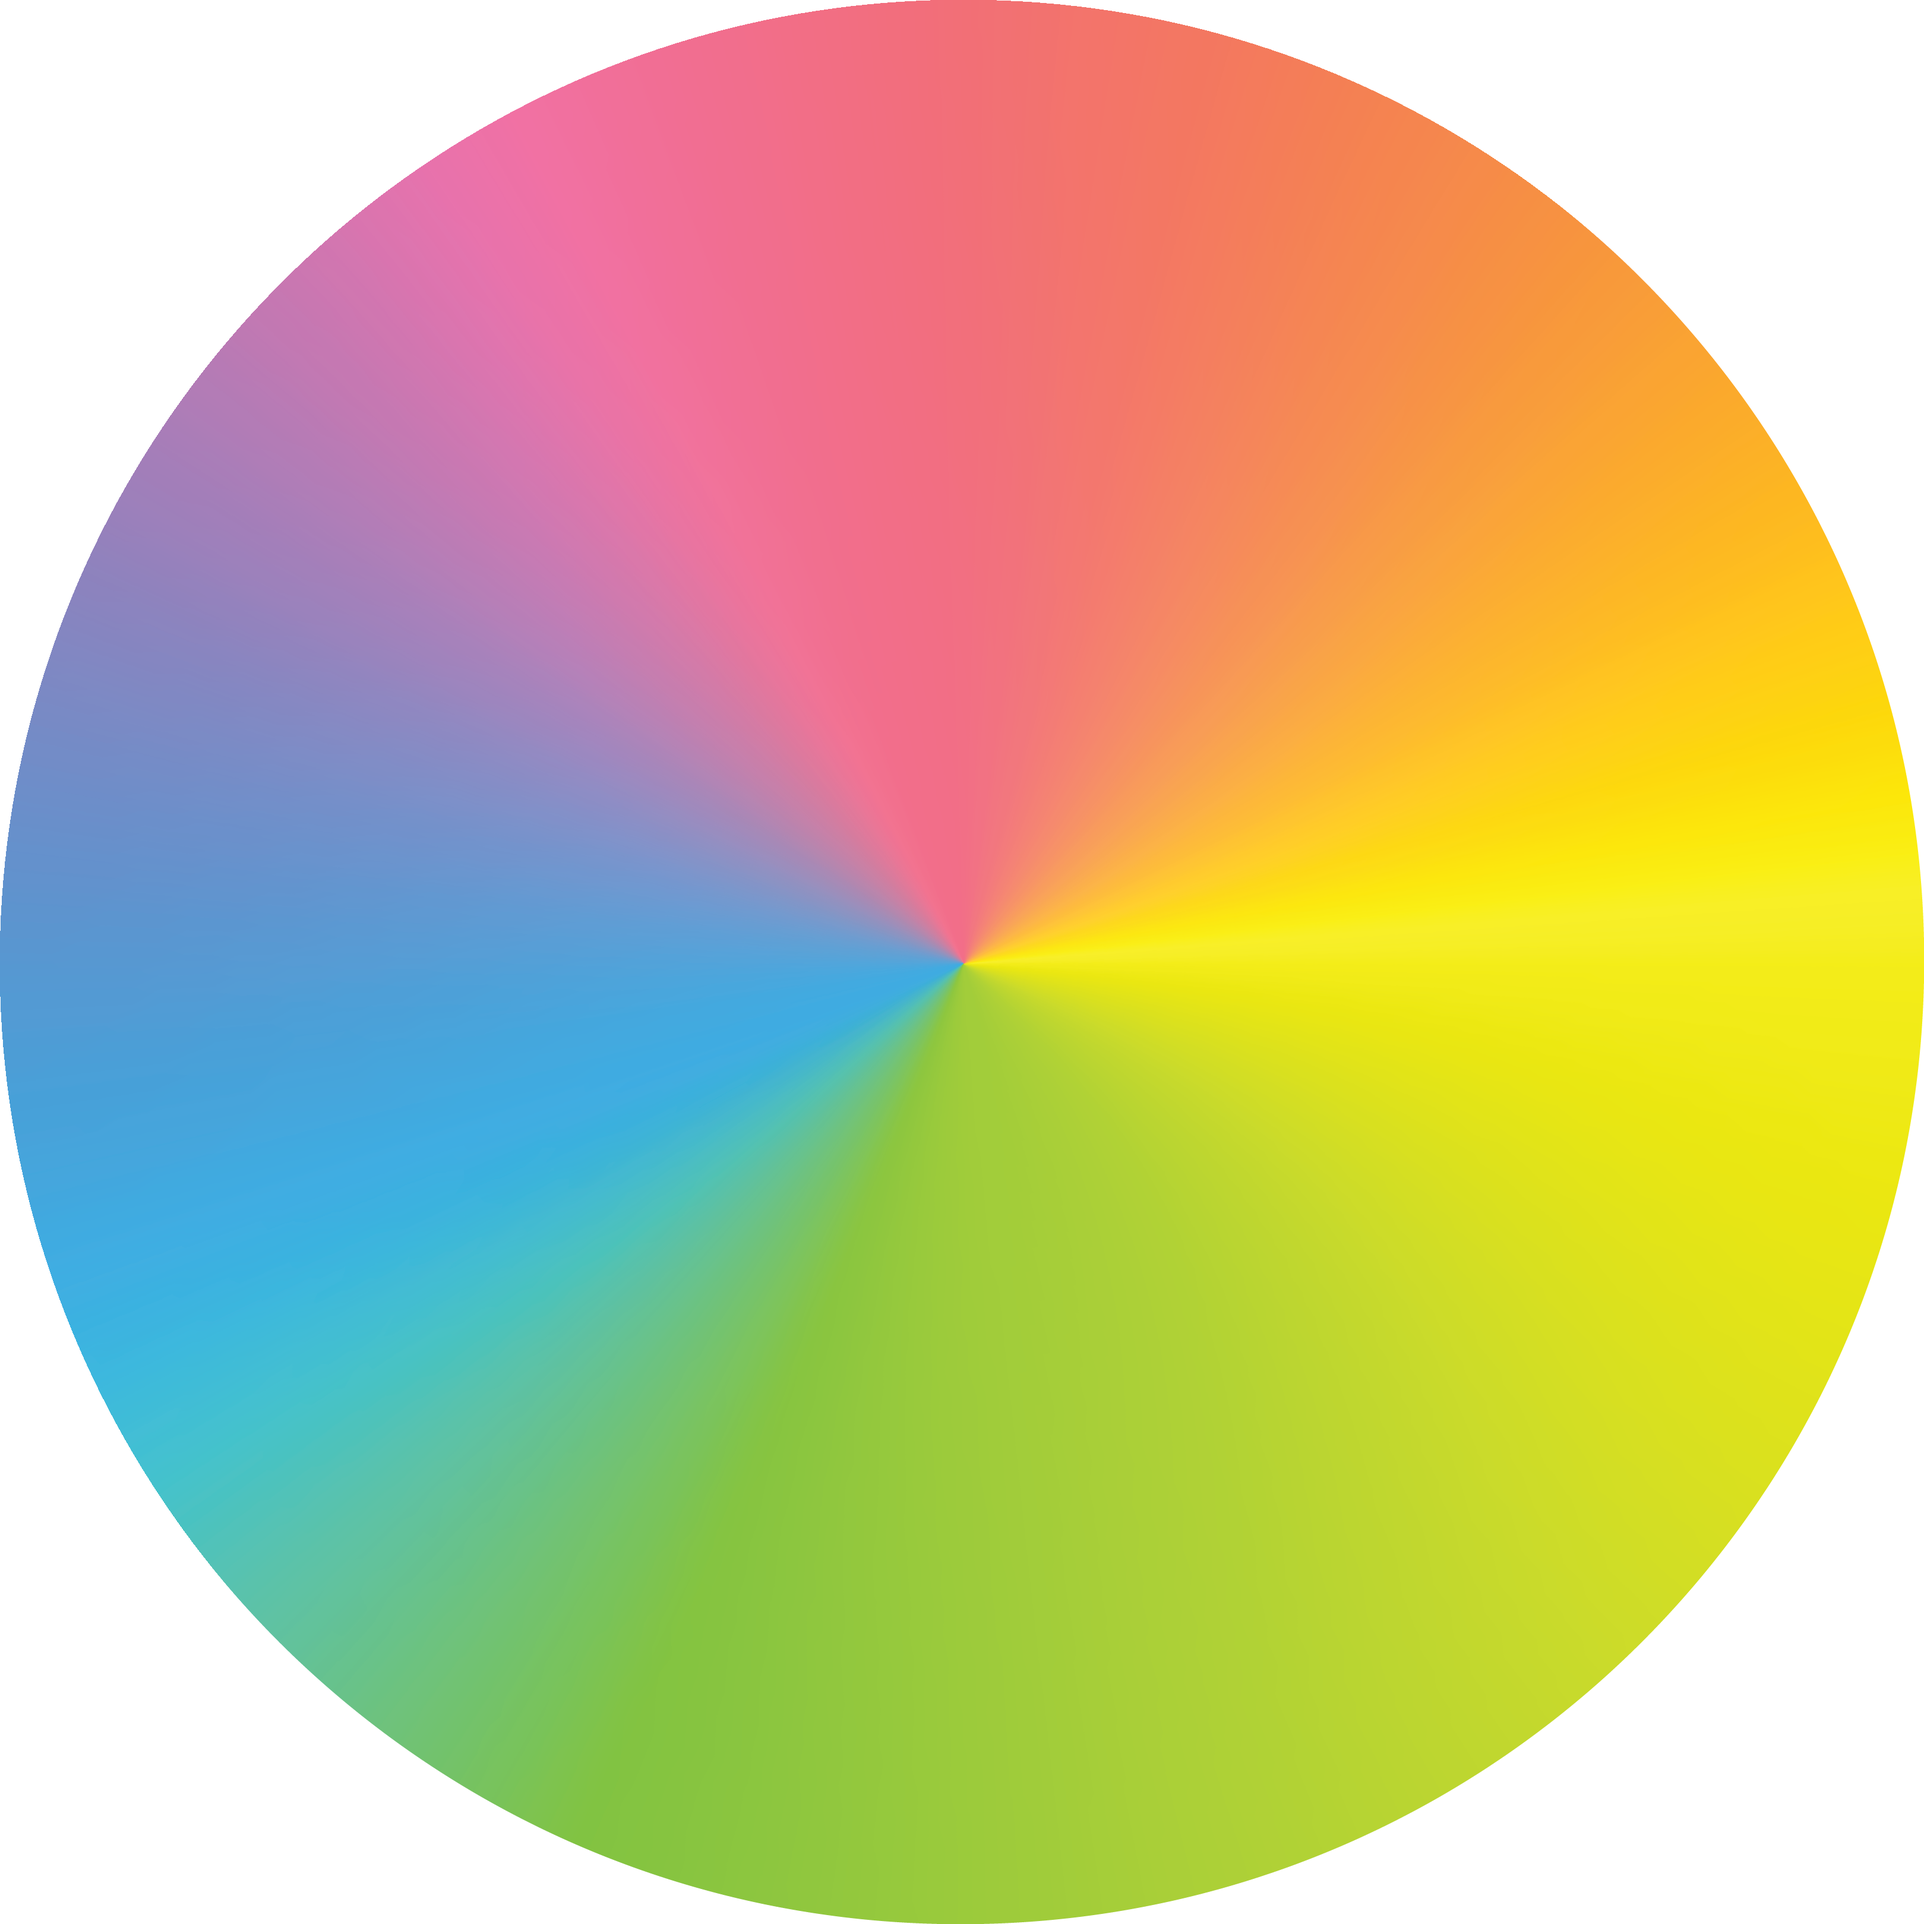
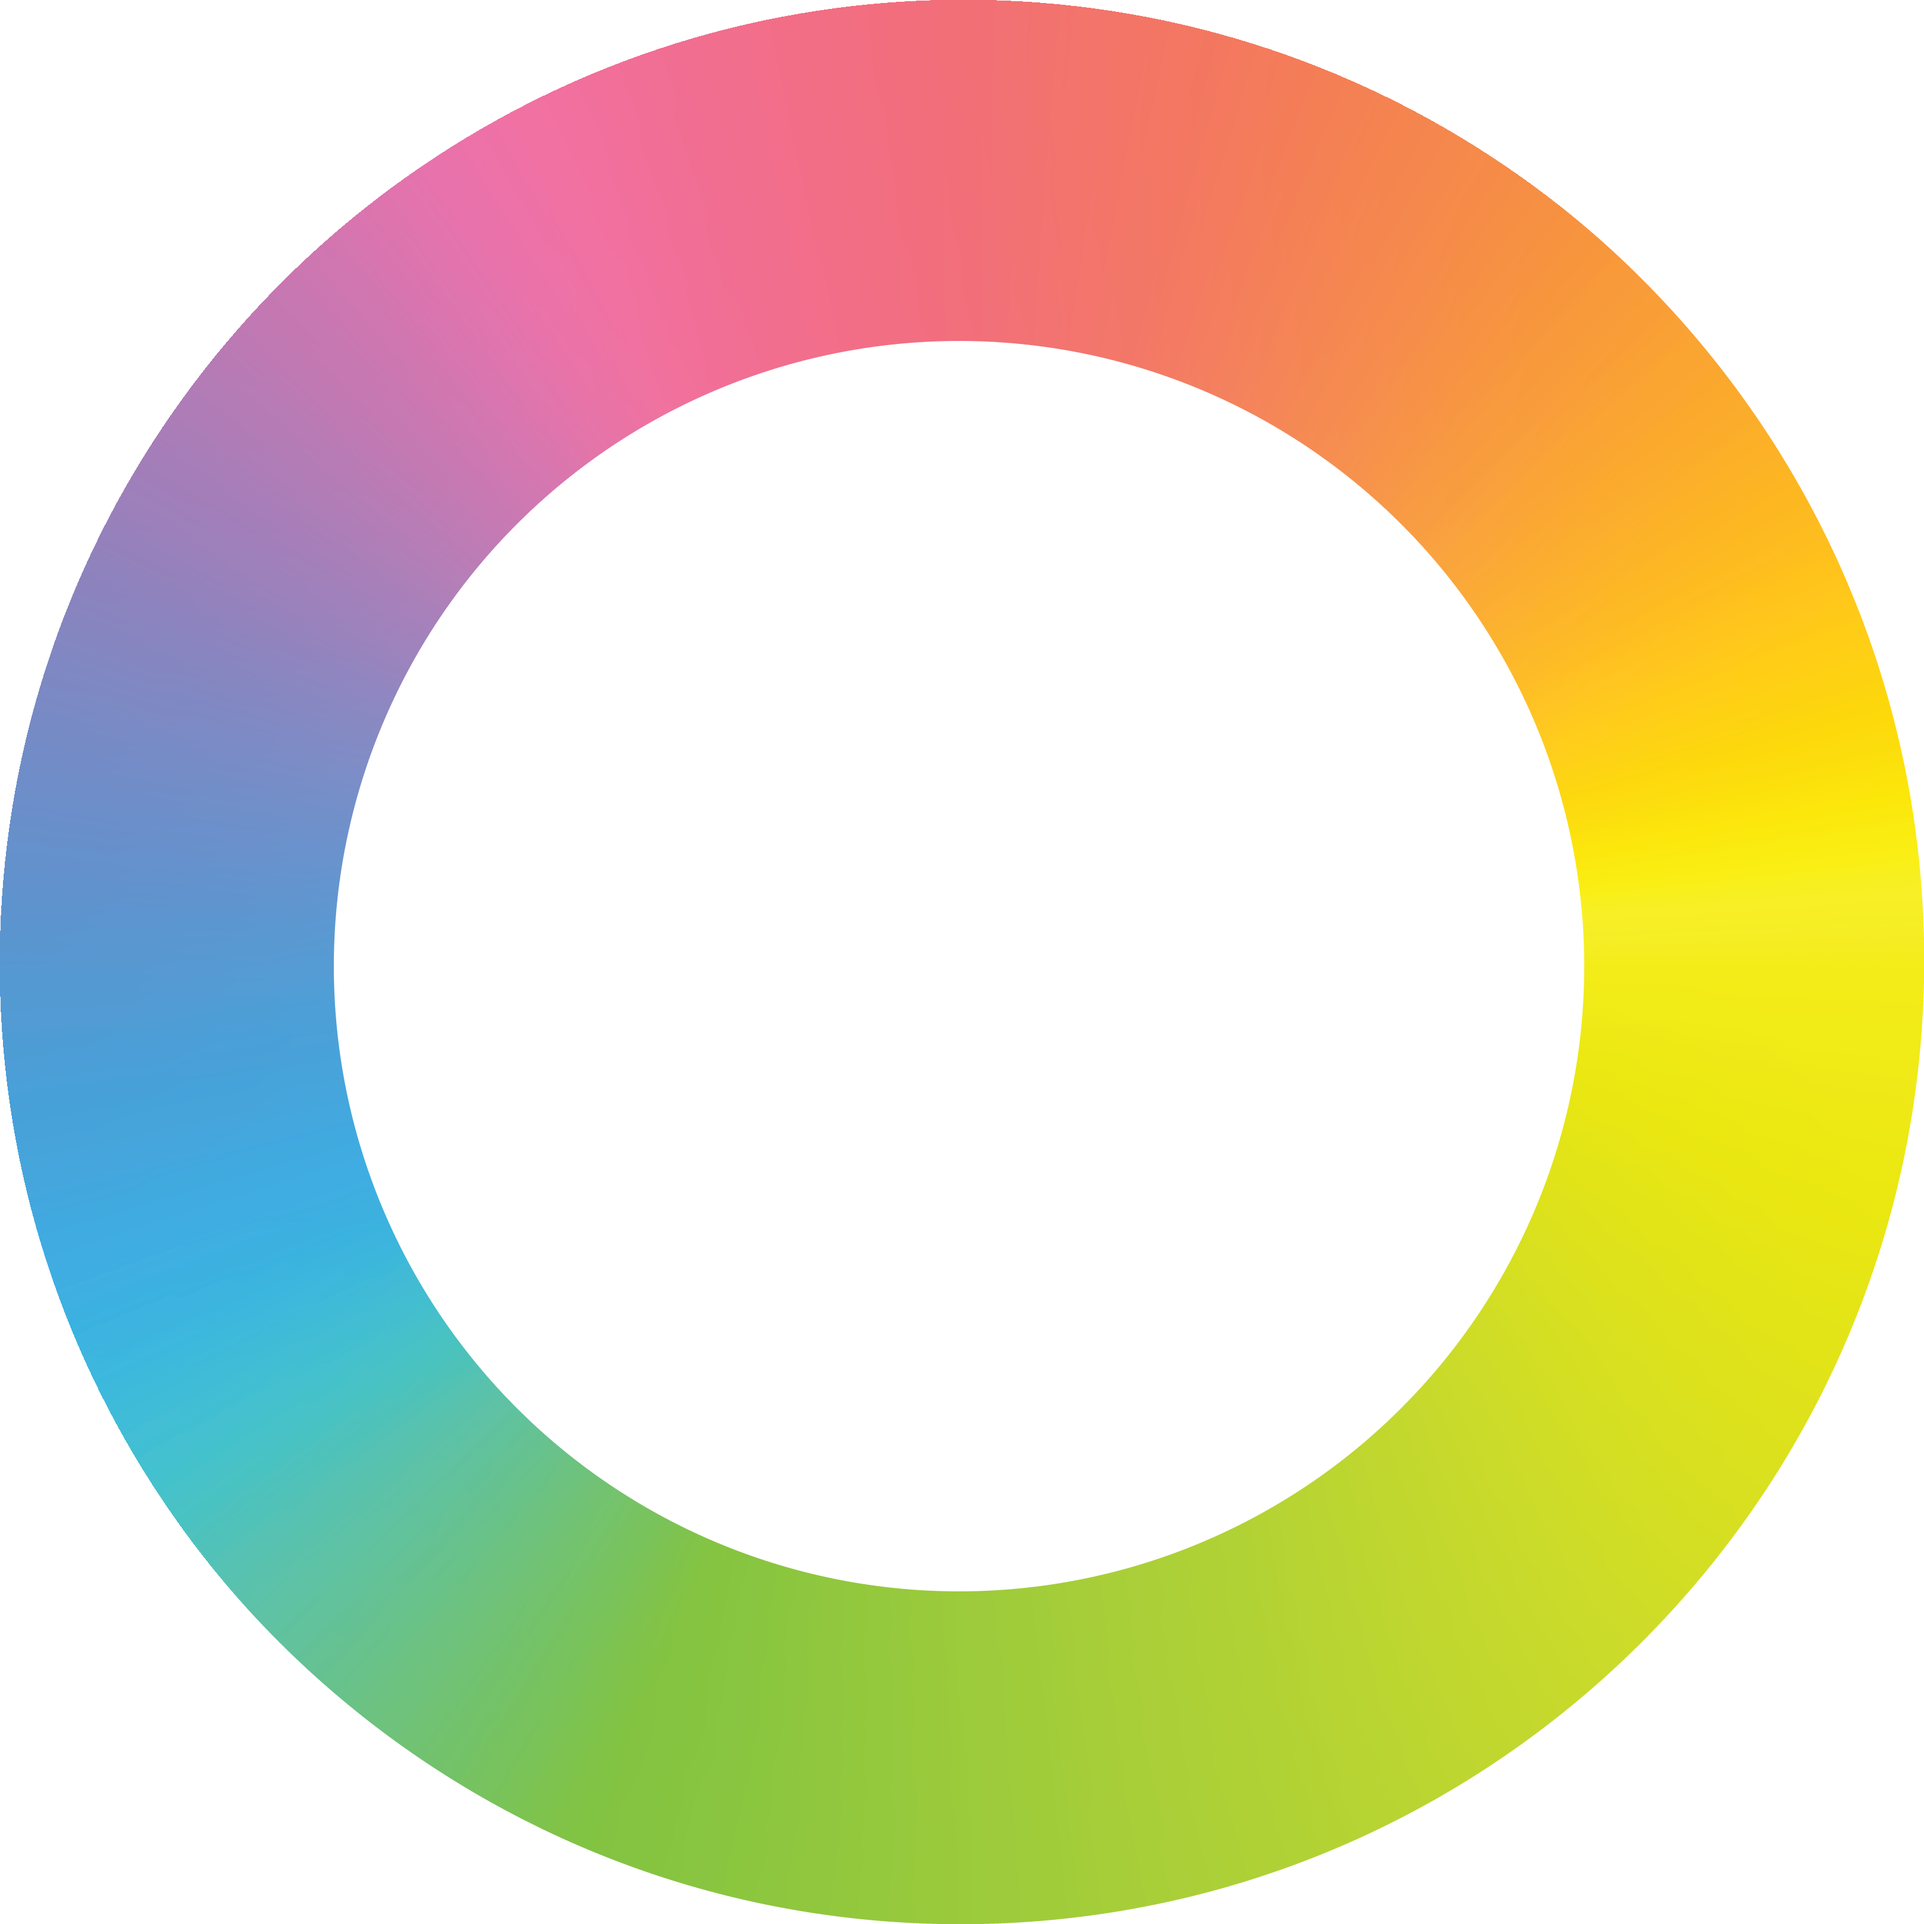
updated wheel

diff --git a/YapZap/YapZap/UserInterface/SetTagViewController.m b/YapZap/YapZap/UserInterface/SetTagViewController.m
@@ -54,12 +54,7 @@
     self.tagTextField.leftViewMode = UITextFieldViewModeAlways;
     self.waveformImage.filterColor = [UIColor whiteColor];
     [self.waveformImage setImage:self.sharingBundle.waveformImage];
-    [self.waveformBorderX setImage:self.sharingBundle.waveformImage];
-    [self.waveformBorderY setImage:self.sharingBundle.waveformImage];
     [self.moodSelector setColorDelegate:self];
-    
-    [self.glowBolt setImage:[UIImage imageNamed:@"bolt_glow.png"]];
-    self.glowBolt.filterColor = [UIColor whiteColor];
     
     
     if (self.searchTableView){
@@ -83,6 +78,7 @@
     [super viewWillAppear:animated];
     self.backButton.hidden=NO;
     self.parent.homeButton.hidden = NO;
+    self.zeusFace.image = nil;
 }
 
 
@@ -183,7 +179,6 @@
 }
 -(void)setMoodColor:(UIColor *)color{
     self.waveformImage.filterColor = color;
-    self.glowBolt.filterColor = color;
     
     self.hasSelectedMood = YES;
     

diff --git a/YapZap/YapZap/UserInterface/SetTagViewController.h b/YapZap/YapZap/UserInterface/SetTagViewController.h
@@ -17,11 +17,8 @@
 @property (weak, nonatomic) IBOutlet UITextField *tagTextField;
 @property (weak, nonatomic) IBOutlet FilteredImageView *waveformImage;
 @property (weak, nonatomic) IBOutlet MoodSelectView *moodSelector;
-@property (weak, nonatomic) IBOutlet UIImageView *waveformBorderY;
-@property (weak, nonatomic) IBOutlet UIImageView *waveformBorderX;
 @property (weak, nonatomic) YapZapMainViewController* parent;
 @property (weak, nonatomic) IBOutlet UIView *autoFillZone;
 @property (weak, nonatomic) IBOutlet UIImageView *zeusFace;
-@property (weak, nonatomic) IBOutlet FilteredImageView *glowBolt;
 
 @end

diff --git a/YapZap/YapZap/Communication/RestHelper.m b/YapZap/YapZap/Communication/RestHelper.m
@@ -12,10 +12,9 @@
 
 @implementation RestHelper
 
-#define PORT 3000
+#define PORT 80
 #define PROTOCOL @"http"
-#define HOST @"localhost"
-//@"54.84.179.166"
+#define HOST @"54.84.179.166"
 
 
 +(NSDictionary*)addAuth:(NSDictionary*)query{

diff --git a/YapZap/YapZap/UserInterface/MoodSelectView.m b/YapZap/YapZap/UserInterface/MoodSelectView.m
@@ -12,7 +12,7 @@
 
 
 -(void)setup{
-    self.image = [UIImage imageNamed:@"color_wheel.png"];
+    self.image = [UIImage imageNamed:@"color_wheel_hole.png"];
     self.userInteractionEnabled = YES;
 }
 
